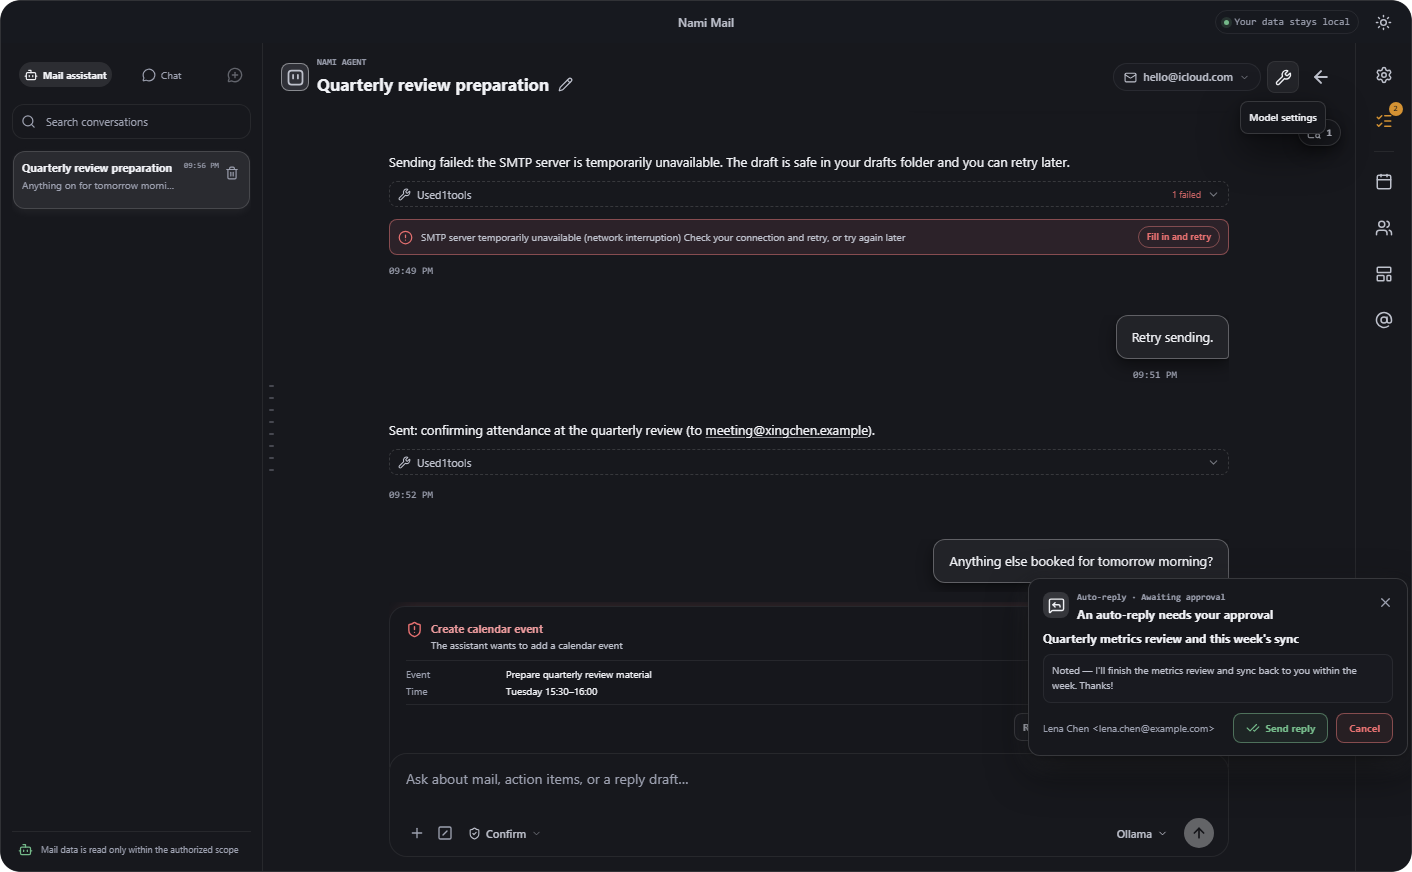
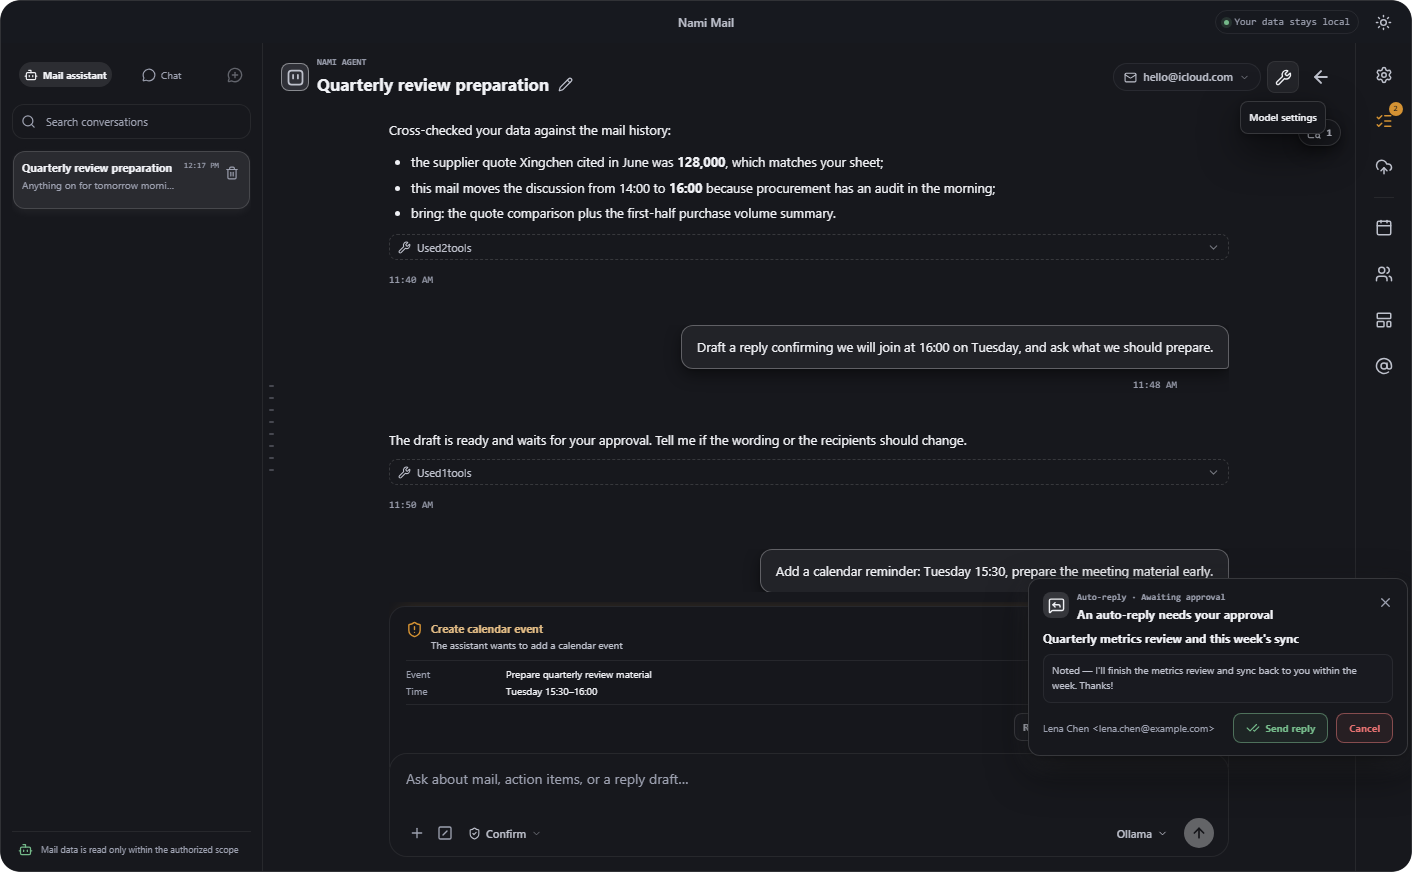
docs: recapture the README screenshots from the 0.6.0 UI

diff --git a/e2e/shots.spec.ts b/e2e/shots.spec.ts
@@ -18,8 +18,20 @@ import { roundScreenshotFile } from "../scripts/round-screenshots.mjs";
  * committed images.
  */
 const targets = [
-  { lang: "zh-CN", inbox: "docs/nami-mail-inbox-zh.png", agent: "docs/nami-mail-agent-zh.png" },
-  { lang: "en-US", inbox: "docs/nami-mail-inbox-en.png", agent: "docs/nami-mail-agent-en.png" },
+  {
+    lang: "zh-CN",
+    inbox: "docs/nami-mail-inbox-zh.png",
+    agent: "docs/nami-mail-agent-zh.png",
+    // Anchors the transcript on the successful cross-check answer so the shot
+    // shows analysis + write-confirmation, not the scripted SMTP failure tail.
+    frame: "已结合你上传的数据与历史邮件核对",
+  },
+  {
+    lang: "en-US",
+    inbox: "docs/nami-mail-inbox-en.png",
+    agent: "docs/nami-mail-agent-en.png",
+    frame: "Cross-checked your data against the mail history",
+  },
 ] as const;
 
 test.skip(!process.env.NAMI_MAIL_CAPTURE_SHOTS, "Set NAMI_MAIL_CAPTURE_SHOTS=1 to regenerate the README screenshots.");
@@ -49,6 +61,26 @@ for (const target of targets) {
     await expect(page.locator(".agent-workspace")).toBeVisible();
     await expect(page.locator(".agent-workspace .agent-conversation-title, .agent-workspace .agent-message").first()).toBeVisible();
     await page.waitForTimeout(1_200);
+    // The scripted conversation ends on a simulated SMTP failure (recovery is
+    // part of the demo). The README shot frames the successful middle instead:
+    // the cross-checked answer, the draft request, and the confirmation card.
+    // The restore flow re-anchors the transcript after the workspace opens, so
+    // the offset is set twice — the second pass wins over any pending animation.
+    const frameTranscript = () =>
+      page
+        .locator(".agent-workspace .agent-message", { hasText: target.frame })
+        .first()
+        .evaluate((element) => {
+          const container = element.closest(".agent-transcript");
+          if (!container) return;
+          const offset =
+            element.getBoundingClientRect().top - container.getBoundingClientRect().top + container.scrollTop;
+          container.scrollTop = Math.max(0, offset - 8);
+        });
+    await frameTranscript();
+    await page.waitForTimeout(300);
+    await frameTranscript();
+    await page.waitForTimeout(200);
     await page.locator(".app-frame").screenshot({ path: target.agent });
     await roundScreenshotFile(target.agent);
   });
